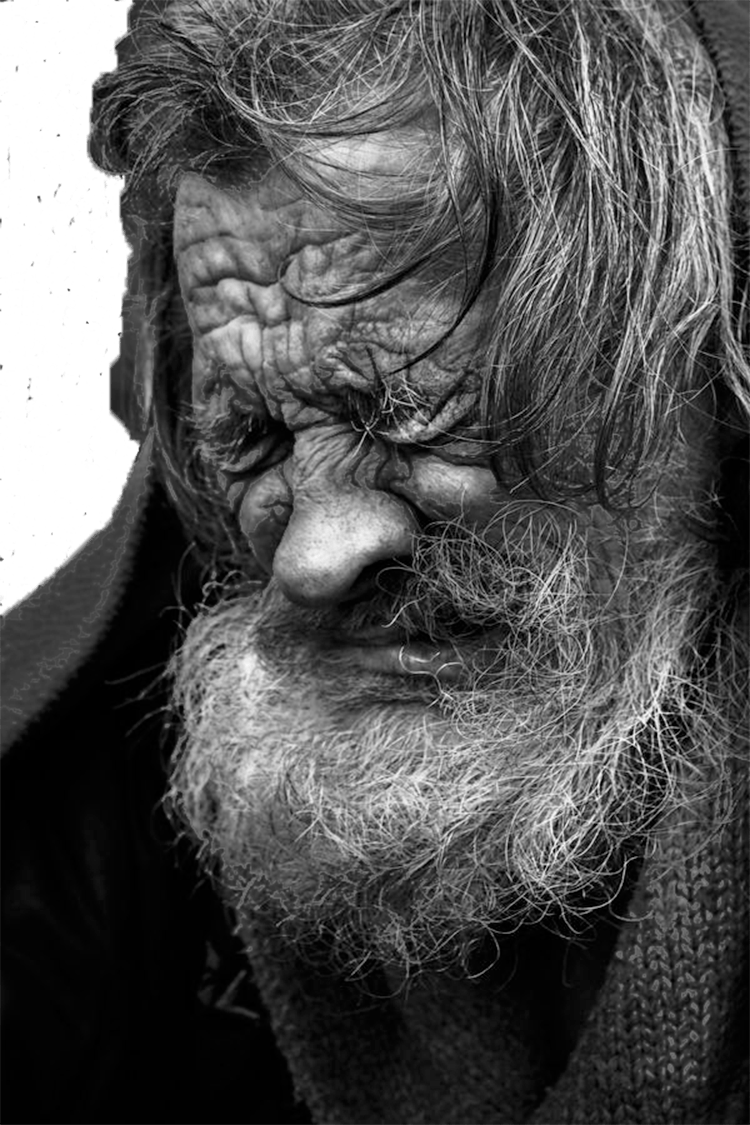
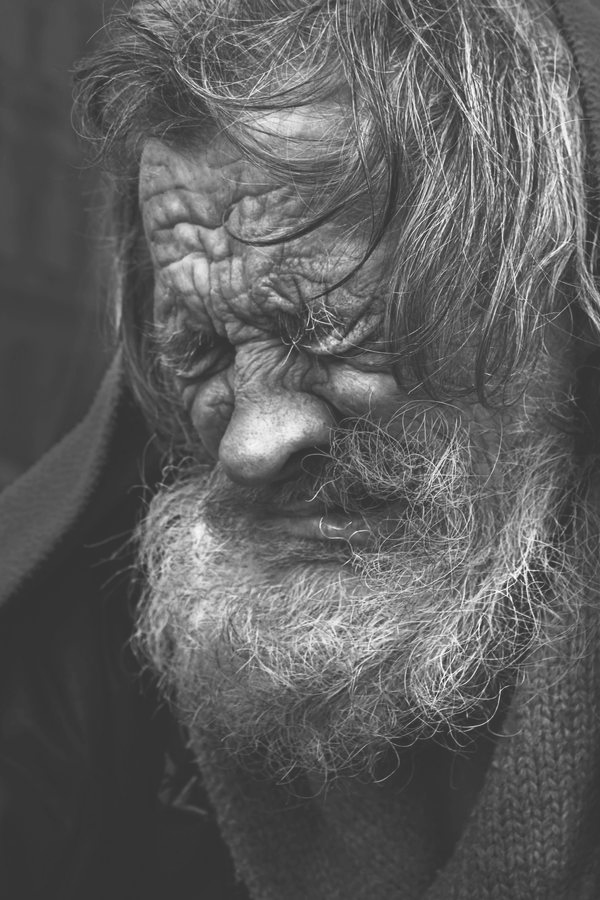
Fixed opacity and see-through container footers

diff --git a/styles.scss b/styles.scss
@@ -270,14 +270,14 @@ body::-webkit-scrollbar {
 }
 
 .parallax {
-    background-image: url("./images/sad_man.jpg");
+    background-image: url("./images/sad_man_parallax.png");
     height: 100vh;
     width: 100vw;
     background-attachment: fixed;
     background-position: center;
     background-repeat: no-repeat;
     background-size: cover;
-    opacity: 0.5;
+    opacity: 1;
 }
 
 #symptom1,

diff --git a/styles.css b/styles.css
@@ -287,14 +287,14 @@ body::-webkit-scrollbar {
 }
 
 .parallax {
-  background-image: url("./images/sad_man.jpg");
+  background-image: url("./images/sad_man_parallax.png");
   height: 100vh;
   width: 100vw;
   background-attachment: fixed;
   background-position: center;
   background-repeat: no-repeat;
   background-size: cover;
-  opacity: 0.5;
+  opacity: 1;
 }
 
 #symptom1,
